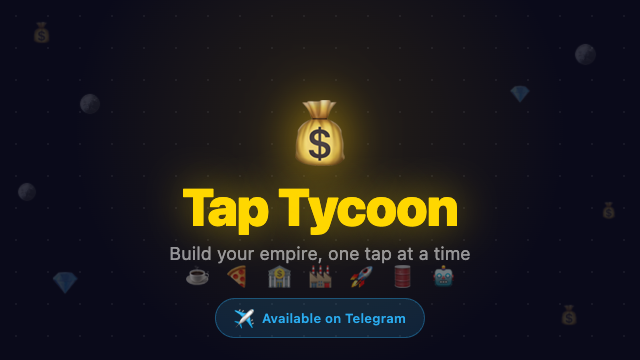
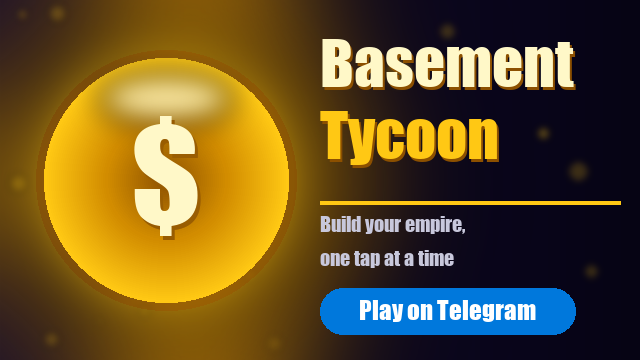
Redesign all visual assets with gold coin motif and glow effects
- Replaced flat dollar-sign icon with metallic gold coin (gradient + highlight stripe)
- Fixed broken og-image (was showing yellow bar instead of text)
- Updated telegram banner with proper typography and Telegram CTA button
- Added gen-assets.py script for reproducible asset generation

diff --git a/gen-assets.py b/gen-assets.py
@@ -1,0 +1,334 @@
+#!/usr/bin/env python3
+"""Generate visual assets for Basement Tycoon."""
+
+from PIL import Image, ImageDraw, ImageFilter, ImageFont
+import math, os, random
+
+ROOT       = os.path.dirname(__file__)
+OUT        = os.path.join(ROOT, "assets")
+OUT_PUB    = os.path.join(ROOT, "public")
+
+# palette
+C_BG1   = (6,  4, 20)          # near-black indigo
+C_BG2   = (22, 12, 55)         # deep purple
+C_GOLD1 = (255, 200,  20)      # bright gold
+C_GOLD2 = (210, 140,   0)      # mid gold
+C_GOLD3 = (140,  80,   0)      # dark gold
+C_CREAM = (255, 248, 200)      # coin highlight
+C_WHITE = (255, 255, 255)
+C_DARK  = (8,   6,  26)
+C_BLUE  = (0,  120, 220)       # Telegram blue
+
+random.seed(99)
+
+# ── utilities ────────────────────────────────────────────────────────────────
+
+def load_font(size):
+    paths = [
+        "/System/Library/Fonts/Supplemental/Impact.ttf",
+        "/System/Library/Fonts/Supplemental/Arial Bold.ttf",
+        "/Library/Fonts/Arial Bold.ttf",
+        "/System/Library/Fonts/Supplemental/Arial.ttf",
+        "/System/Library/Fonts/Helvetica.ttc",
+    ]
+    for p in paths:
+        try:
+            return ImageFont.truetype(p, size)
+        except Exception:
+            pass
+    return ImageFont.load_default()
+
+
+def radial_bg(size, c_center, c_edge):
+    """Pixel-by-pixel radial gradient (fast enough for ≤1024)."""
+    w, h = size
+    img = Image.new("RGB", (w, h))
+    px  = img.load()
+    cx, cy = w / 2, h / 2
+    max_r  = math.hypot(cx, cy)
+    for y in range(h):
+        for x in range(w):
+            t = min(math.hypot(x - cx, y - cy) / max_r, 1.0)
+            t = t * t                                          # ease-in curve
+            px[x, y] = tuple(int(c_center[k] + (c_edge[k] - c_center[k]) * t)
+                              for k in range(3))
+    return img.convert("RGBA")
+
+
+def hgrad_rect(draw, x0, y0, x1, y1, c_left, c_right):
+    w = x1 - x0
+    for i in range(w):
+        t = i / max(w - 1, 1)
+        c = tuple(int(c_left[k] + (c_right[k] - c_left[k]) * t) for k in range(3))
+        draw.line([(x0 + i, y0), (x0 + i, y1)], fill=c)
+
+
+def soft_glow(canvas_size, cx, cy, radius, color, blur):
+    """Return an RGBA layer with a blurred disc (glow)."""
+    layer = Image.new("RGBA", canvas_size, (0, 0, 0, 0))
+    d = ImageDraw.Draw(layer)
+    d.ellipse([cx - radius, cy - radius, cx + radius, cy + radius],
+              fill=(*color[:3], 240))
+    return layer.filter(ImageFilter.GaussianBlur(blur))
+
+
+def draw_text_centered(draw, text, font, cx, y, fill, shadow=None):
+    bbox = font.getbbox(text)
+    tw = bbox[2] - bbox[0]
+    x  = cx - tw // 2
+    if shadow:
+        draw.text((x + 2, y + 3), text, font=font, fill=(*shadow, 160))
+    draw.text((x, y), text, font=font, fill=fill)
+    return tw
+
+
+def draw_text_left(draw, text, font, x, y, fill, shadow=None):
+    if shadow:
+        draw.text((x + 2, y + 3), text, font=font, fill=(*shadow, 160))
+    draw.text((x, y), text, font=font, fill=fill)
+    bbox = font.getbbox(text)
+    return bbox[2] - bbox[0]
+
+
+def rounded_pill(draw, x0, y0, x1, y1, r, fill):
+    draw.rounded_rectangle([x0, y0, x1, y1], radius=r, fill=fill)
+
+
+# ── coin ─────────────────────────────────────────────────────────────────────
+
+def draw_coin(img, cx, cy, radius, dollar_font_size=None):
+    """
+    Draw a single gold coin with metallic gradient + highlight stripe.
+    Returns the composite image.
+    """
+    size = img.size
+    layer = Image.new("RGBA", size, (0, 0, 0, 0))
+
+    # 1. outer glow
+    g = soft_glow(size, cx, cy, int(radius * 1.15), C_GOLD1, blur=radius // 3)
+    layer = Image.alpha_composite(layer, g)
+
+    # 2. dark edge shadow ring
+    d = ImageDraw.Draw(layer)
+    d.ellipse([cx - radius - 8, cy - radius - 8,
+               cx + radius + 8, cy + radius + 8],
+              fill=(*C_GOLD3, 100))
+
+    # 3. coin body: concentric ellipses for metallic gradient
+    steps = 60
+    for s in range(steps, 0, -1):
+        t  = s / steps
+        r  = int(radius * t)
+        # dark center → bright mid → slightly darker edge
+        if t < 0.5:
+            tt = t / 0.5
+            col = tuple(int(C_GOLD3[k] + (C_GOLD2[k] - C_GOLD3[k]) * tt) for k in range(3))
+        else:
+            tt = (t - 0.5) / 0.5
+            col = tuple(int(C_GOLD2[k] + (C_GOLD1[k] - C_GOLD2[k]) * tt) for k in range(3))
+        d.ellipse([cx - r, cy - r, cx + r, cy + r], fill=col)
+
+    # 4. top-left metallic highlight stripe (ellipse, blurred)
+    hl = Image.new("RGBA", size, (0, 0, 0, 0))
+    hd = ImageDraw.Draw(hl)
+    hl_rx = int(radius * 0.55)
+    hl_ry = int(radius * 0.22)
+    hd.ellipse([cx - hl_rx, cy - radius + int(radius * 0.12),
+                cx + hl_rx, cy - radius + int(radius * 0.12) + hl_ry * 2],
+               fill=(*C_CREAM, 200))
+    hl = hl.filter(ImageFilter.GaussianBlur(int(radius * 0.12)))
+    layer = Image.alpha_composite(layer, hl)
+    d = ImageDraw.Draw(layer)
+
+    # 5. $ text
+    fs   = dollar_font_size or int(radius * 1.1)
+    font = load_font(fs)
+    # shadow
+    bbox = font.getbbox("$")
+    tw, th = bbox[2] - bbox[0], bbox[3] - bbox[1]
+    tx = cx - tw // 2 - bbox[0]
+    ty = cy - th // 2 - bbox[1] - int(radius * 0.04)
+    d.text((tx + 3, ty + 4), "$", font=font, fill=(*C_GOLD3, 180))
+    d.text((tx, ty), "$", font=font, fill=C_CREAM)
+
+    # 6. merge
+    return Image.alpha_composite(img, layer)
+
+
+# ── ICON  1024×1024 ──────────────────────────────────────────────────────────
+
+def make_icon(path, size=1024):
+    img = radial_bg((size, size), C_BG2, C_BG1)
+
+    cx, cy = size // 2, size // 2
+    R = int(size * 0.40)
+
+    # sparkle dots in background
+    sp = Image.new("RGBA", (size, size), (0, 0, 0, 0))
+    sd = ImageDraw.Draw(sp)
+    for _ in range(20):
+        sx = random.randint(0, size)
+        sy = random.randint(0, size)
+        sr = random.randint(2, 8)
+        al = random.randint(60, 180)
+        sd.ellipse([sx - sr, sy - sr, sx + sr, sy + sr], fill=(*C_GOLD1, al))
+    sp = sp.filter(ImageFilter.GaussianBlur(1))
+    img = Image.alpha_composite(img, sp)
+
+    # coin
+    img = draw_coin(img, cx, cy, R, dollar_font_size=int(R * 1.1))
+
+    img.convert("RGB").save(path, "PNG", optimize=True)
+    print(f"  {path}")
+
+
+# ── OG IMAGE  1200×630 ───────────────────────────────────────────────────────
+
+def make_og(path, w=1200, h=630):
+    img = Image.new("RGBA", (w, h), C_BG1)
+
+    # gradient background
+    bg = Image.new("RGBA", (w, h))
+    bd = ImageDraw.Draw(bg)
+    hgrad_rect(bd, 0, 0, w, h, C_BG2, C_BG1)
+    img = Image.alpha_composite(img, bg)
+
+    # left-area ambient glow
+    gl = soft_glow((w, h), w // 4, h // 2, int(h * 0.55), C_GOLD2, blur=120)
+    img = Image.alpha_composite(img, gl)
+
+    # ── coin (left half) ───────────────────────────────────────────
+    coin_r = int(h * 0.34)
+    coin_cx = int(w * 0.28)
+    coin_cy = h // 2
+    img = draw_coin(img, coin_cx, coin_cy, coin_r, dollar_font_size=int(coin_r * 1.05))
+
+    # ── text (right half) ──────────────────────────────────────────
+    d   = ImageDraw.Draw(img)
+    tx  = int(w * 0.52)
+    avw = int(w * 0.46)       # available width for text
+
+    f_title = load_font(int(h * 0.20))
+    f_sub   = load_font(int(h * 0.060))
+    f_tag   = load_font(int(h * 0.050))
+    f_btn   = load_font(int(h * 0.065))
+
+    # "Basement"
+    draw_text_left(d, "Basement", f_title, tx, int(h * 0.08),
+                   C_CREAM, shadow=C_GOLD3)
+    # "Tycoon"
+    draw_text_left(d, "Tycoon", f_title, tx, int(h * 0.08) + int(h * 0.22),
+                   C_GOLD1, shadow=C_GOLD3)
+
+    # divider
+    line_y = int(h * 0.60)
+    d.rectangle([tx, line_y, tx + avw, line_y + 4], fill=C_GOLD1)
+
+    draw_text_left(d, "Build your empire,",
+                   f_sub, tx, line_y + 14, (210, 210, 230))
+    draw_text_left(d, "one tap at a time",
+                   f_sub, tx, line_y + 14 + int(h * 0.085), (210, 210, 230))
+    draw_text_left(d, "Idle game  |  Free to play",
+                   f_tag, tx, line_y + 14 + int(h * 0.175), (150, 150, 175))
+
+    # CTA pill
+    btn_x0 = tx
+    btn_y0 = int(h * 0.86)
+    btn_x1 = tx + int(avw * 0.58)
+    btn_y1 = btn_y0 + int(h * 0.11)
+    rounded_pill(d, btn_x0, btn_y0, btn_x1, btn_y1,
+                 (btn_y1 - btn_y0) // 2, C_GOLD1)
+    bbox = f_btn.getbbox("Play Free Now")
+    bw = bbox[2] - bbox[0]
+    bh = bbox[3] - bbox[1]
+    bx = btn_x0 + (btn_x1 - btn_x0 - bw) // 2 - bbox[0]
+    by = btn_y0 + (btn_y1 - btn_y0 - bh) // 2 - bbox[1]
+    d.text((bx, by), "Play Free Now", font=f_btn, fill=C_DARK)
+
+    img.convert("RGB").save(path, "PNG", optimize=True)
+    print(f"  {path}")
+
+
+# ── TELEGRAM BANNER  640×360 ─────────────────────────────────────────────────
+
+def make_telegram(path, w=640, h=360):
+    img = Image.new("RGBA", (w, h), C_BG1)
+
+    bg = Image.new("RGBA", (w, h))
+    bd = ImageDraw.Draw(bg)
+    hgrad_rect(bd, 0, 0, w, h, C_BG2, C_BG1)
+    img = Image.alpha_composite(img, bg)
+
+    # ambient glow
+    gl = soft_glow((w, h), int(w * 0.3), h // 2, int(h * 0.55), C_GOLD2, blur=80)
+    img = Image.alpha_composite(img, gl)
+
+    # scattered dot bg
+    sp = Image.new("RGBA", (w, h), (0, 0, 0, 0))
+    sd = ImageDraw.Draw(sp)
+    for _ in range(16):
+        sx = random.randint(0, w)
+        sy = random.randint(0, h)
+        sr = random.randint(4, 18)
+        al = random.randint(30, 100)
+        sd.ellipse([sx - sr, sy - sr, sx + sr, sy + sr], fill=(*C_GOLD1, al))
+    sp = sp.filter(ImageFilter.GaussianBlur(4))
+    img = Image.alpha_composite(img, sp)
+
+    # coin
+    coin_r = int(h * 0.34)
+    coin_cx = int(w * 0.26)
+    coin_cy = h // 2
+    img = draw_coin(img, coin_cx, coin_cy, coin_r, dollar_font_size=int(coin_r * 1.05))
+
+    # text
+    d = ImageDraw.Draw(img)
+    tx  = int(w * 0.50)
+    avw = int(w * 0.47)
+
+    f_title = load_font(int(h * 0.17))
+    f_sub   = load_font(int(h * 0.056))
+    f_btn   = load_font(int(h * 0.070))
+
+    draw_text_left(d, "Basement", f_title, tx, int(h * 0.07), C_CREAM, shadow=C_GOLD3)
+    draw_text_left(d, "Tycoon",   f_title, tx, int(h * 0.07) + int(h * 0.20),
+                   C_GOLD1, shadow=C_GOLD3)
+
+    line_y = int(h * 0.56)
+    d.rectangle([tx, line_y, tx + avw, line_y + 3], fill=C_GOLD1)
+
+    draw_text_left(d, "Build your empire,",
+                   f_sub, tx, line_y + 10, (200, 200, 220))
+    draw_text_left(d, "one tap at a time",
+                   f_sub, tx, line_y + 10 + int(h * 0.095), (200, 200, 220))
+
+    # Telegram button
+    btn_x0 = tx
+    btn_y0 = int(h * 0.80)
+    btn_x1 = tx + int(avw * 0.85)
+    btn_y1 = btn_y0 + int(h * 0.13)
+    rounded_pill(d, btn_x0, btn_y0, btn_x1, btn_y1,
+                 (btn_y1 - btn_y0) // 2, C_BLUE)
+    bbox = f_btn.getbbox("Play on Telegram")
+    bw = bbox[2] - bbox[0]
+    bh = bbox[3] - bbox[1]
+    bx = btn_x0 + (btn_x1 - btn_x0 - bw) // 2 - bbox[0]
+    by = btn_y0 + (btn_y1 - btn_y0 - bh) // 2 - bbox[1]
+    d.text((bx, by), "Play on Telegram", font=f_btn, fill=C_WHITE)
+
+    img.convert("RGB").save(path, "PNG", optimize=True)
+    print(f"  {path}")
+
+
+# ─────────────────────────────────────────────────────────────────────────────
+if __name__ == "__main__":
+    print("Generating assets...")
+    make_icon(os.path.join(OUT, "icon.png"), 1024)
+    make_icon(os.path.join(OUT, "adaptive-icon.png"), 1024)
+    make_icon(os.path.join(OUT, "splash-icon.png"), 512)
+    make_icon(os.path.join(OUT, "favicon.png"), 256)
+    make_icon(os.path.join(OUT_PUB, "favicon.png"), 256)
+    make_icon(os.path.join(OUT_PUB, "apple-touch-icon.png"), 180)
+    make_og(os.path.join(OUT_PUB, "og-image.png"))
+    make_telegram(os.path.join(OUT, "telegram-banner.png"))
+    print("Done.")
